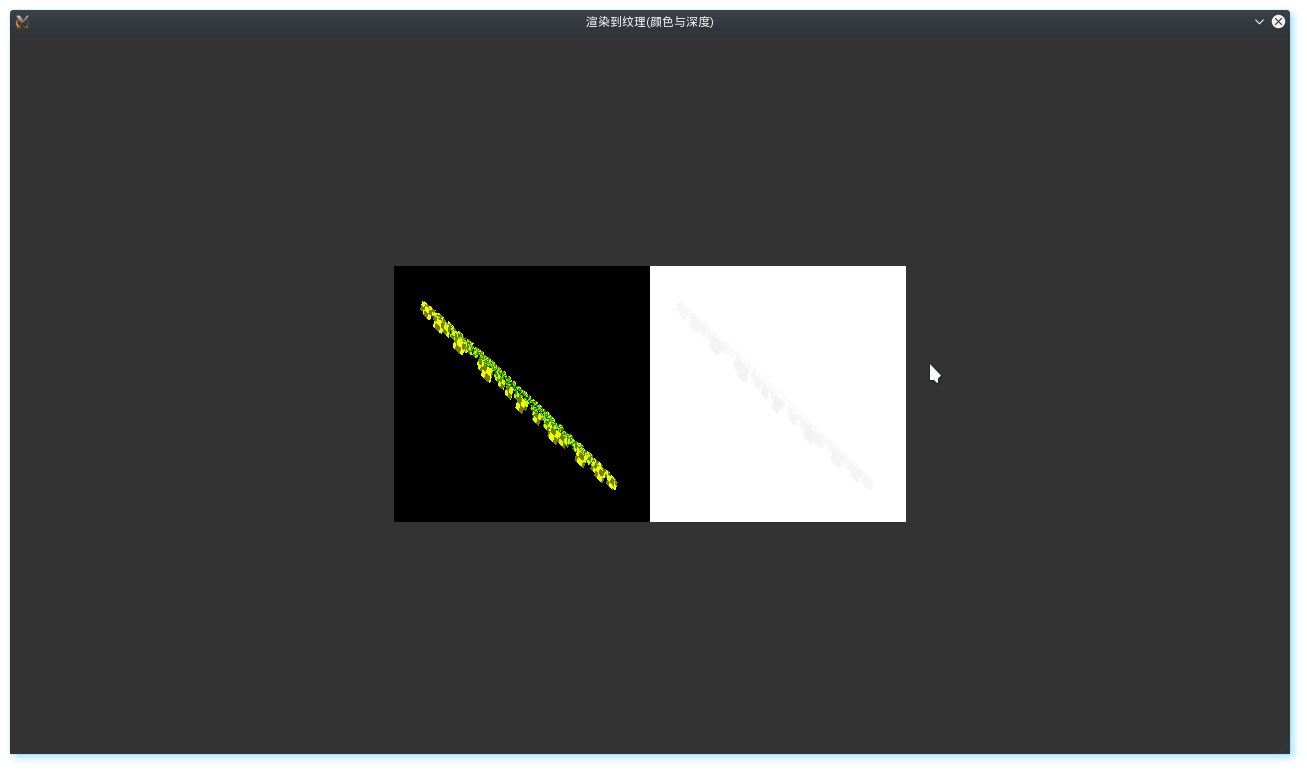
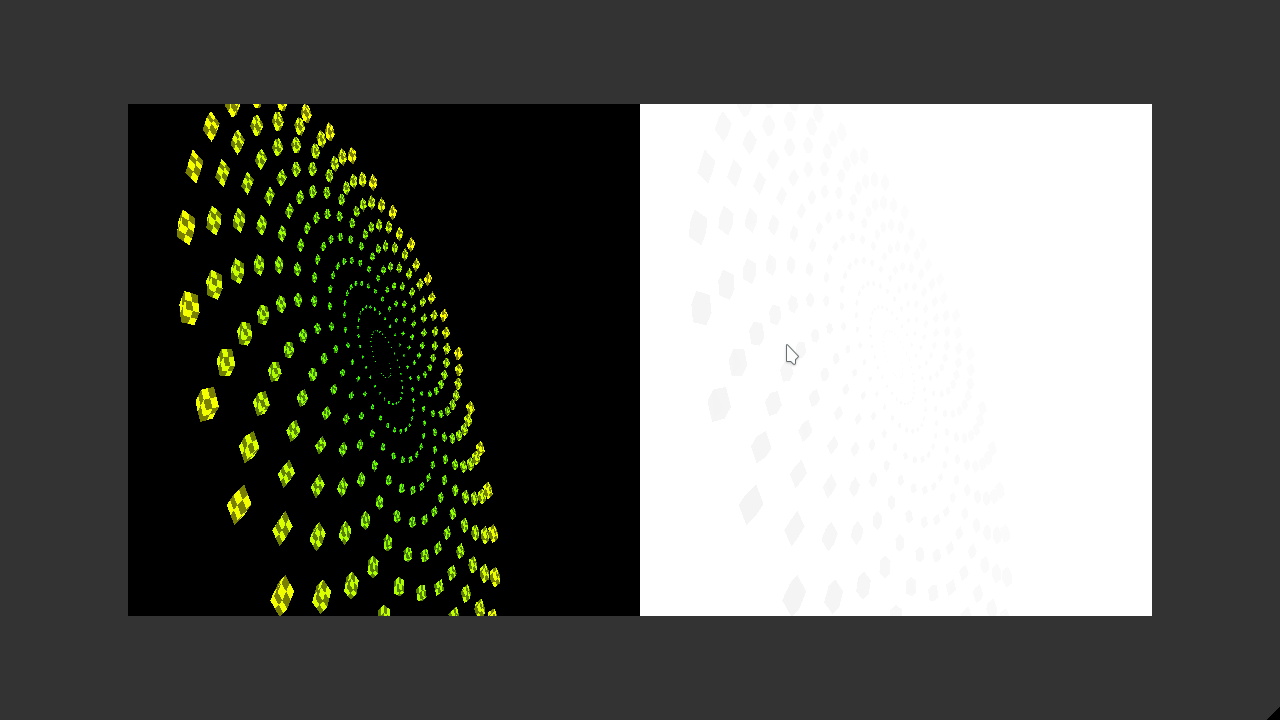
删除重复的宏定义

diff --git a/examples/3d/RTTColorDepth/MainUnit.cpp b/examples/3d/RTTColorDepth/MainUnit.cpp
@@ -10,8 +10,6 @@
 using namespace hgl;
 using namespace hgl::graph;
 
-#define CUBE_NUMBER	360
-
 const Vector3f  eye(100,100,80),
 				center(0,0,0),
 				up_vector(0,0,1);
@@ -66,13 +64,13 @@ public:
 
 		sc=new SpiralCubeScene(up_vector);							///<创建Cube螺旋排列场景
 
-		rtt=new RenderToTextureColorDepth(256,256,HGL_SF_RGB8,HGL_SF_DEPTH32F);	///<创建渲染到纹理对象
+		rtt=new RenderToTextureColorDepth(512,512,HGL_SF_RGB8,HGL_SF_DEPTH32F);	///<创建渲染到纹理对象
 
 		{
-			RectScope2f pos((GetScreenWidth()-512)/2,
-							(GetScreenHeight()-256)/2,
-							256,
-							256);
+			RectScope2f pos((GetScreenWidth()-1024)/2,
+							(GetScreenHeight()-512)/2,
+							512,
+							512);
 
 			RectScope2f tex_coord(0,0,1,1);
 
@@ -87,10 +85,10 @@ public:
 		}
 
 		{
-			RectScope2f pos(((GetScreenWidth()-512)/2)+256,
-							(GetScreenHeight()-256)/2,
-							256,
-							256);
+			RectScope2f pos(((GetScreenWidth()-1024)/2)+512,
+							(GetScreenHeight()-512)/2,
+							512,
+							512);
 
 			RectScope2f tex_coord(0,0,1,1);
 

diff --git a/examples/3d/RTTColor/MainUnit.cpp b/examples/3d/RTTColor/MainUnit.cpp
@@ -10,8 +10,6 @@
 using namespace hgl;
 using namespace hgl::graph;
 
-#define CUBE_NUMBER	360
-
 const Vector3f  eye(100,100,80),
 				center(0,0,0),
 				up_vector(0,0,1);

diff --git a/examples/3d/RTTDepth/MainUnit.cpp b/examples/3d/RTTDepth/MainUnit.cpp
@@ -10,8 +10,6 @@
 using namespace hgl;
 using namespace hgl::graph;
 
-#define CUBE_NUMBER	360
-
 const Vector3f  eye(100,100,80),
 				center(0,0,0),
 				up_vector(0,0,1);

diff --git a/examples/3d/SpiralCubeScene/MainUnit.cpp b/examples/3d/SpiralCubeScene/MainUnit.cpp
@@ -9,8 +9,6 @@
 using namespace hgl;
 using namespace hgl::graph;
 
-#define CUBE_NUMBER	360
-
 const Vector3f  eye(100,100,80),
 				center(0,0,0),
 				up_vector(0,0,1);

diff --git a/examples/3d/SpiralCube/MainUnit.cpp b/examples/3d/SpiralCube/MainUnit.cpp
@@ -9,7 +9,6 @@
 using namespace hgl;
 using namespace hgl::graph;
 
-
 const Vector3f  eye(100,100,80),
 				center(0,0,0),
 				up_vector(0,0,1);
